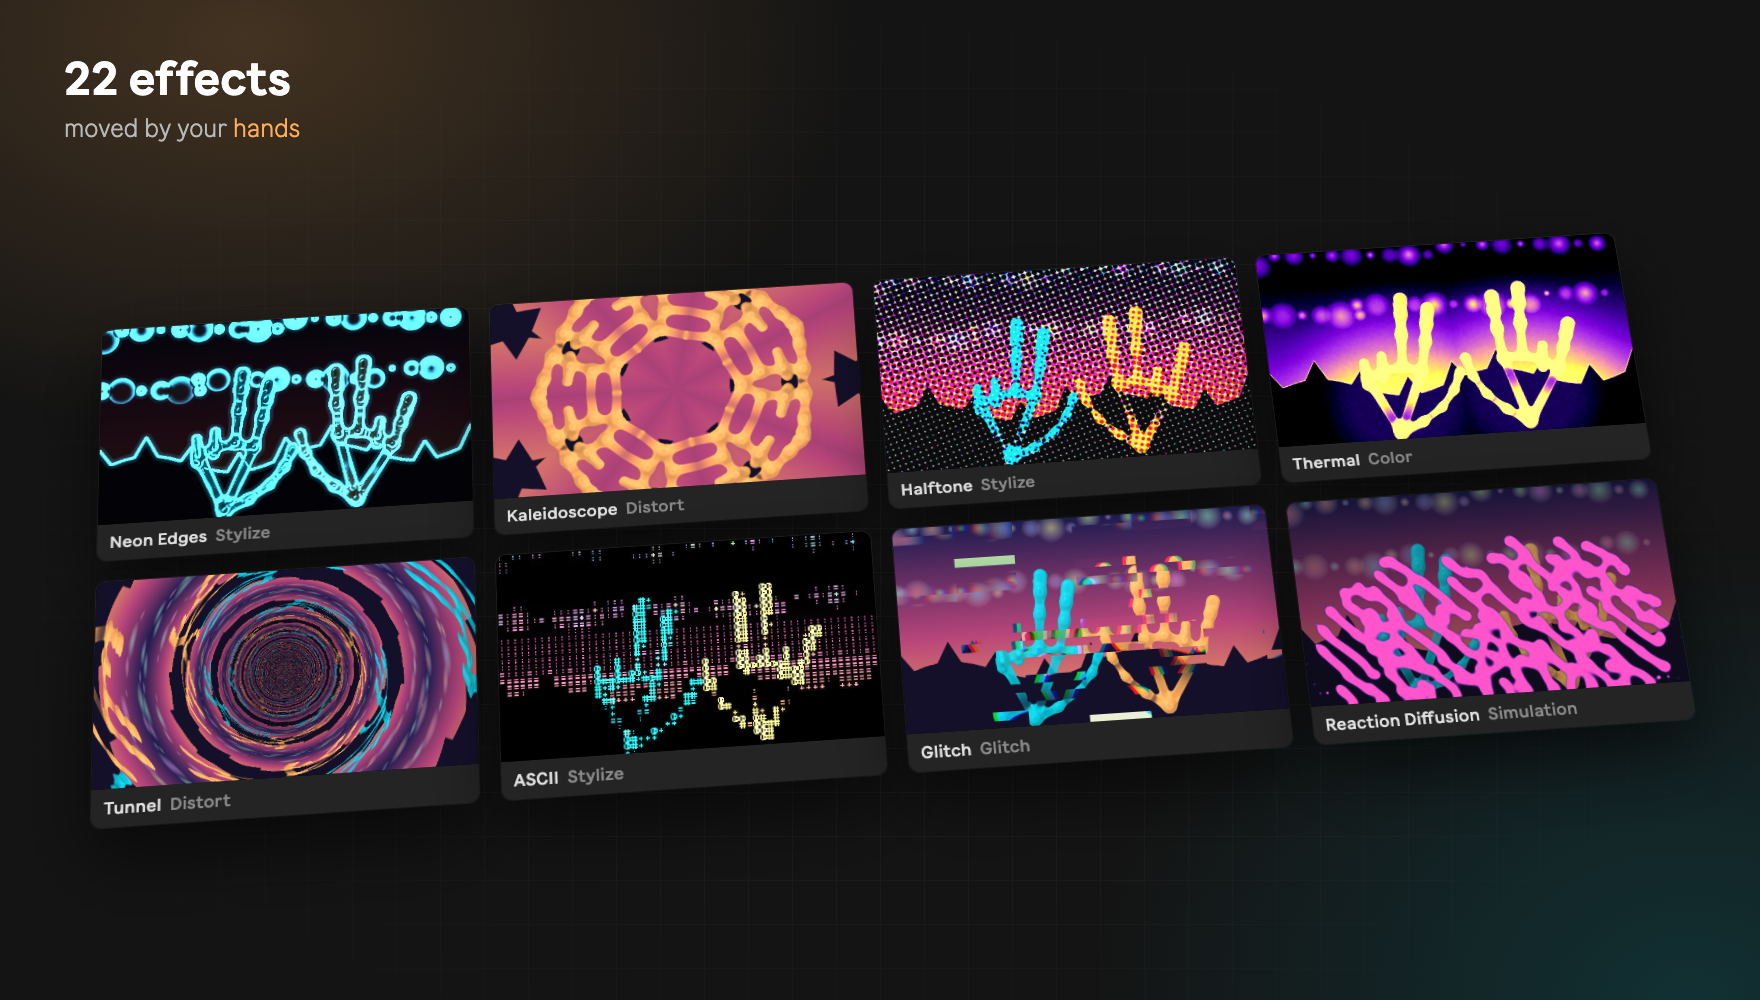
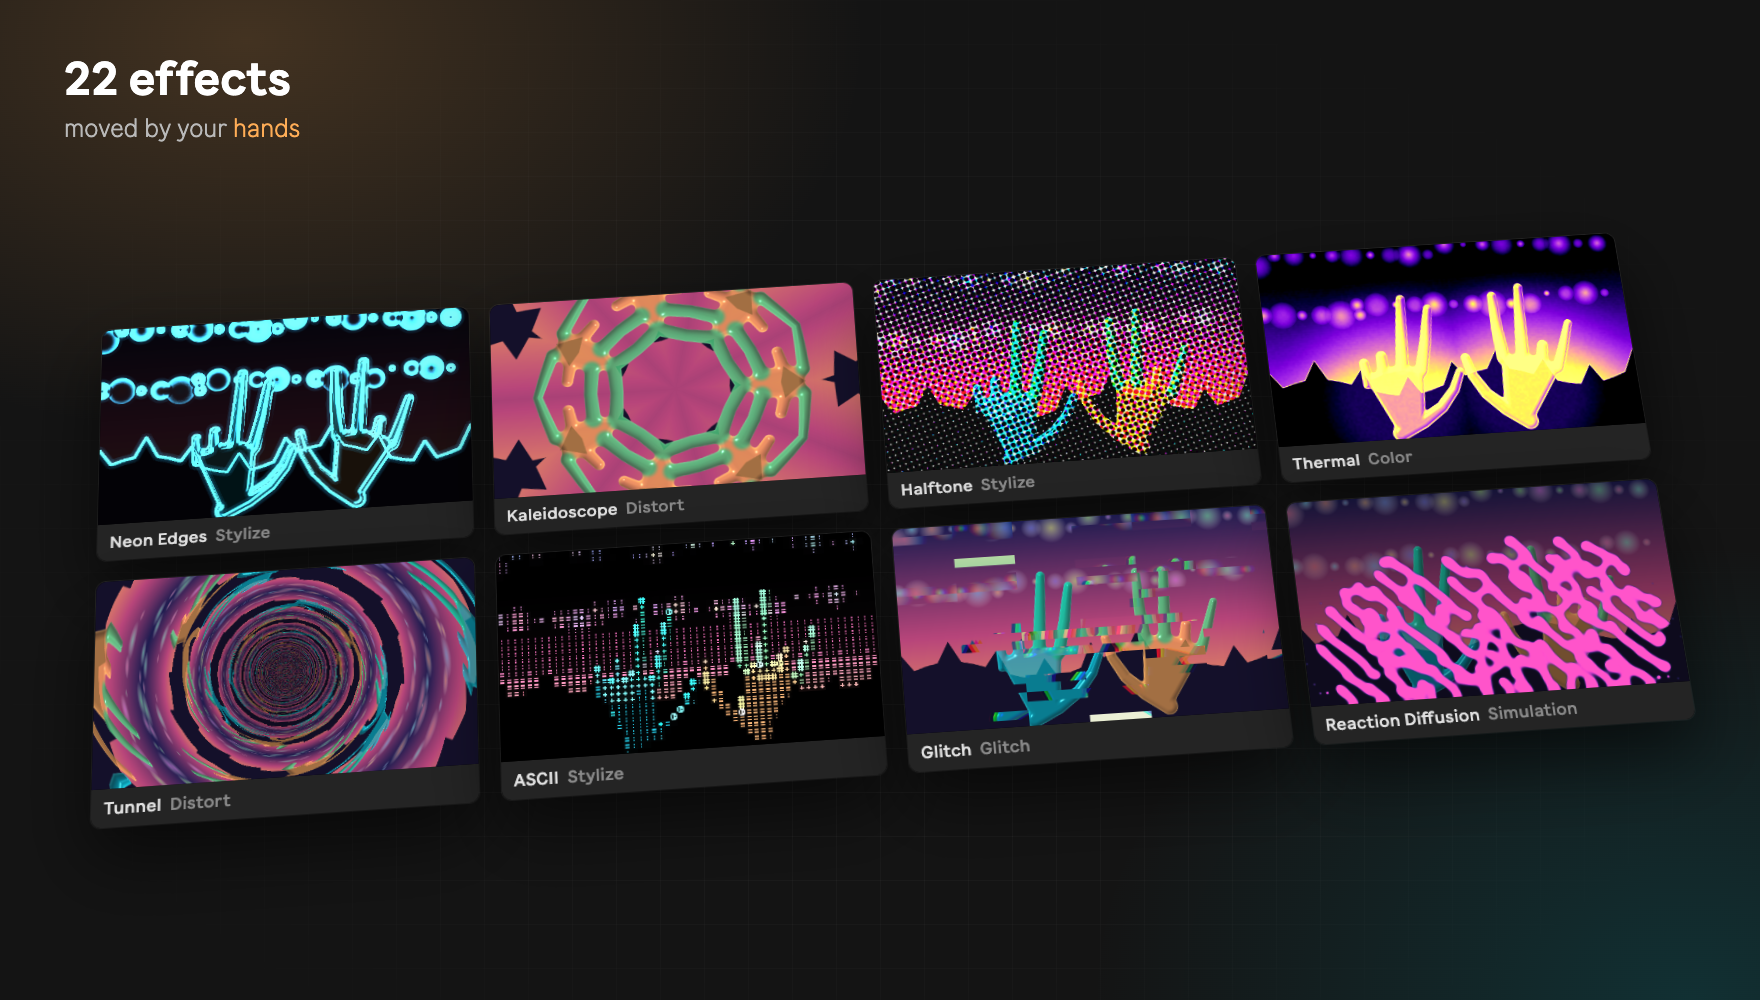
feat: slimmer, more elegant jelly hands; fix blank audio mod menus
- Jelly look rebuilt as a distance field: tapered fingers (knuckle to
  tip), joined plainly so joints do not bulge, blended only into a
  glassy palm; clear inside, solid at the rim, soft highlight. Sized
  from the hand itself (knuckle spacing) instead of the old app's
  scale factor, which made fingers ~1.5x wider than real ones in
  close-ups. Playing fingers tint smoothly towards the play color.
- Editor: a knob's stored audio source (e.g. A Beat) showed as blank
  when the settings arrived before the letter was heard; the menu now
  adds missing entries and always shows the parameter's value.

Claude-Session: https://claude.ai/code/session_01Lv8F25mHrKPNLjGZjr72Lo

diff --git a/package/javascript/mh-gl.js b/package/javascript/mh-gl.js
@@ -90,7 +90,9 @@ uniform float u_mix;
 out vec4 o;
 void main() { o = vec4(mix(texture(u_base, v_uv).rgb, texture(u_fx, v_uv).rgb, u_mix), 1.0); }`;
 
-  // The old app's hand body: a lit, slightly wobbling field over joints and bones.
+  // The hand body ("Jelly"): slim tapered fingers smoothly joined to a glassy palm,
+  // as a signed distance field. Sized from the hand itself (knuckle spacing), so it
+  // stays slimmer than the real fingers at any distance from the camera.
   const FIELD_VERT = `#version 300 es
 precision highp float;
 in vec2 a_pos;
@@ -98,91 +100,101 @@ uniform vec4 u_rect;
 uniform vec2 u_res;
 uniform float u_yFlip;
 out vec2 v_px;
-out vec2 v_local;
 ${TO_CLIP}
 void main() {
   v_px = u_rect.xy + a_pos * u_rect.zw;
-  v_local = a_pos * 2.0 - 1.0;
   gl_Position = toClip(v_px, u_res);
 }`;
 
   const FIELD_FRAG = `#version 300 es
 precision highp float;
 #define JOINTS 21
-#define SEGS 21
 in vec2 v_px;
-in vec2 v_local;
 uniform vec2 u_joint[JOINTS];
 uniform float u_jointR[JOINTS];
-uniform vec4 u_seg[SEGS];
-uniform float u_segR[SEGS];
-uniform vec3 u_color, u_highlight;
-uniform float u_alpha, u_time, u_rate, u_phase;
+uniform float u_jointOn[JOINTS];
+uniform float u_palmR, u_k, u_R;
+uniform vec3 u_color, u_highlight, u_play;
+uniform float u_alpha, u_time, u_phase;
 out vec4 o;
-float capsule(vec2 p, vec2 a, vec2 b, float r) {
-  vec2 pa = p - a, ba = b - a;
-  float h = clamp(dot(pa, ba) / max(dot(ba, ba), 1e-4), 0.0, 1.0);
-  return length(pa - ba * h) - r;
+// Fingers: thumb from the wrist, then index to pinky from their knuckles.
+const int BA[16] = int[16](0, 1, 2, 3, 5, 6, 7, 9, 10, 11, 13, 14, 15, 17, 18, 19);
+const int BB[16] = int[16](1, 2, 3, 4, 6, 7, 8, 10, 11, 12, 14, 15, 16, 18, 19, 20);
+const int PALM[6] = int[6](0, 1, 5, 9, 13, 17);
+float cro(vec2 a, vec2 b) { return a.x * b.y - a.y * b.x; }
+// A capsule whose radius changes from ra to rb (Inigo Quilez).
+float taper(vec2 p, vec2 pa, vec2 pb, float ra, float rb) {
+  p -= pa; pb -= pa;
+  float h = dot(pb, pb);
+  if (h < 1.0) return length(p) - max(ra, rb);
+  vec2 q = vec2(dot(p, vec2(pb.y, -pb.x)), dot(p, pb)) / h;
+  q.x = abs(q.x);
+  float b = ra - rb;
+  vec2 c = vec2(sqrt(max(h - b * b, 1e-3)), b);
+  float k = cro(c, q), m = dot(c, q), n = dot(q, q);
+  if (k < 0.0) return sqrt(h * n) - ra;
+  if (k > c.x) return sqrt(h * (n + 1.0 - 2.0 * q.y)) - rb;
+  return m - ra;
 }
-float wob(vec2 d, int i) {
-  float a = atan(d.y, d.x);
-  return 1.0 + 0.06 * sin(a * 2.0 + u_time * (1.05 + u_rate * 0.95) + u_phase * 6.28318)
-             + 0.035 * sin(a * 3.0 - u_time * (0.62 + u_rate * 0.82) + float(i) * 0.37);
-}
-float pulseAt(vec2 p, vec4 s) {
-  float t = clamp(length(p - s.xy) / max(length(s.zw - s.xy), 1e-4), 0.0, 1.0);
-  return 0.5 + 0.5 * sin((t - u_time * 0.18 * max(u_rate, 1e-3) - u_phase) * 6.28318);
-}
-float fieldAt(vec2 p) {
-  float total = 0.0;
-  for (int i = 0; i < JOINTS; i++) {
-    vec2 d = p - u_joint[i];
-    float dist = length(d) / max(u_jointR[i] * wob(d, i), 1e-3);
-    total += exp(-pow(dist, 2.35)) * 0.92;
+float palm(vec2 p) {
+  vec2 v0 = u_joint[PALM[0]];
+  float d = dot(p - v0, p - v0), s = 1.0;
+  int j = 5;
+  for (int i = 0; i < 6; i++) {
+    vec2 vi = u_joint[PALM[i]], vj = u_joint[PALM[j]];
+    vec2 e = vj - vi, w = p - vi;
+    vec2 b = w - e * clamp(dot(w, e) / max(dot(e, e), 1e-3), 0.0, 1.0);
+    d = min(d, dot(b, b));
+    bvec3 c = bvec3(p.y >= vi.y, p.y < vj.y, e.x * w.y > e.y * w.x);
+    if (all(c) || all(not(c))) s = -s;
+    j = i;
   }
-  for (int i = 0; i < SEGS; i++) {
-    float dist = capsule(p, u_seg[i].xy, u_seg[i].zw, u_segR[i]) / max(u_segR[i], 1e-3);
-    total += exp(-pow(max(dist, 0.0), 2.4) * 1.05) * (1.08 + pulseAt(p, u_seg[i]) * 0.12);
+  return s * sqrt(d);
+}
+float smin(float a, float b, float k) { float h = max(k - abs(a - b), 0.0) / k; return min(a, b) - h * h * k * 0.25; }
+// x: distance (px, negative inside), y: how much a playing finger tints this point.
+// The segments of a finger join plainly (no bulging joints); only fingers and palm blend.
+vec2 scene(vec2 p) {
+  float d = palm(p) - u_palmR * 0.2, on = 0.0;
+  int bone = 0;
+  for (int f = 0; f < 5; f++) {
+    int count = f == 0 ? 4 : 3;
+    float df = 1e9;
+    for (int k = 0; k < 4; k++) {
+      if (k >= count) break;
+      int a = BA[bone], b = BB[bone];
+      df = min(df, taper(p, u_joint[a], u_joint[b], u_jointR[a], u_jointR[b]));
+      bone++;
+    }
+    on = max(on, u_jointOn[BB[bone - 1]] * (1.0 - smoothstep(-2.0, u_k, df)));
+    d = smin(d, df, u_k);
   }
-  return total;
+  return vec2(d, on);
 }
 void main() {
-  float field = 0.0, membraneField = 0.0, charge = 0.0, centerWeight = 0.0;
-  for (int i = 0; i < JOINTS; i++) {
-    vec2 d = v_px - u_joint[i];
-    float dist = length(d) / max(u_jointR[i] * wob(d, i), 1e-3);
-    float blob = exp(-pow(dist, 2.35));
-    field += blob * 0.92;
-    membraneField += exp(-pow(dist - 0.98, 2.0) * 8.5);
-    charge += blob * (0.35 + 0.65 * sin(u_time * (1.8 + u_rate * 1.2) + u_phase * 6.28318 + float(i) * 0.31));
-    centerWeight += blob;
-  }
-  for (int i = 0; i < SEGS; i++) {
-    float dist = capsule(v_px, u_seg[i].xy, u_seg[i].zw, u_segR[i]) / max(u_segR[i], 1e-3);
-    float bridge = exp(-pow(max(dist, 0.0), 2.4) * 1.05);
-    float pulse = pulseAt(v_px, u_seg[i]);
-    field += bridge * (1.08 + pulse * 0.12);
-    membraneField += exp(-pow(dist - 0.12, 2.0) * 6.8) * 0.82;
-    charge += bridge * pulse * 0.3;
-  }
-  float body = smoothstep(0.98, 1.24, field);
-  if (body < 0.001) discard;
-  float core = smoothstep(1.26, 1.82, field);
-  float membrane = smoothstep(0.18, 0.96, membraneField) * (1.0 - core * 0.44);
-  float flow = 0.5 + 0.5 * sin(length(v_local) * 9.0 - u_time * (1.5 + u_rate * 0.8) + u_phase * 6.28318 + centerWeight * 0.45);
-  float electric = clamp(charge / 18.0, 0.0, 1.0);
-  float e = 2.2;
-  float fx = fieldAt(v_px + vec2(e, 0.0)) - fieldAt(v_px - vec2(e, 0.0));
-  float fy = fieldAt(v_px + vec2(0.0, e)) - fieldAt(v_px - vec2(0.0, e));
-  vec3 n = normalize(vec3(-fx, -fy, 0.95));
-  vec3 l = normalize(vec3(-0.38, -0.46, 0.8));
-  float diffuse = max(dot(n, l), 0.0);
-  float rim = pow(1.0 - max(n.z, 0.0), 2.4);
-  float spec = pow(max(dot(reflect(-l, n), vec3(0.0, 0.0, 1.0)), 0.0), 18.0);
-  float gloss = spec * (0.18 + flow * 0.12 + electric * 0.08);
-  vec3 c = u_color * (0.82 + diffuse * 0.34 + core * 0.08);
-  c = mix(c, u_highlight, gloss + rim * 0.14 + membrane * 0.05);
-  float a = u_alpha * body * (1.0 + membrane * 0.12 + gloss * 0.08);
+  vec2 s = scene(v_px);
+  float body = clamp(0.5 - s.x, 0.0, 1.0);             // 1 px soft edge
+  if (body <= 0.0) discard;
+  float R = max(u_R, 2.0);                              // one thickness for the whole hand: no seams
+  float t = clamp(-s.x / R, 0.0, 1.0);                  // 0 at the rim, 1 deep inside
+  // A rounded profile: the normal tilts outwards towards the rim.
+  float e = max(1.0, R * 0.12);
+  vec2 g = vec2(scene(v_px + vec2(e, 0.0)).x - scene(v_px - vec2(e, 0.0)).x,
+                scene(v_px + vec2(0.0, e)).x - scene(v_px - vec2(0.0, e)).x) / (2.0 * e);
+  float u = 1.0 - t;
+  float slope = u / max(sqrt(1.0 - u * u), 0.12);
+  vec3 n = normalize(vec3(g * min(slope, 6.0), 1.0));
+  vec3 L = normalize(vec3(-0.45, -0.55, 0.7));
+  float diffuse = max(dot(n, L), 0.0);
+  float spec = pow(max(dot(reflect(-L, n), vec3(0.0, 0.0, 1.0)), 0.0), 36.0);
+  float fresnel = pow(1.0 - n.z, 2.0);
+  float sheen = 0.75 + 0.25 * sin(dot(v_px, vec2(0.018, 0.031)) - u_time * 1.3 + u_phase * 6.28318);
+  vec3 base = mix(u_color, u_play, s.y * 0.7);
+  vec3 c = base * (0.5 + 0.6 * diffuse) + u_highlight * (spec * 0.85 * sheen + fresnel * 0.3);
+  // Glass: clear inside, solid at the rim; a playing finger fills up.
+  float rim = 1.0 - smoothstep(0.0, 0.45, t);
+  float a = u_alpha * body * mix(0.72, 1.0, max(rim, s.y * 0.6));
+  a = clamp(a + spec * 0.3, 0.0, 1.0);
   o = vec4(c * a, a);
 }`;
 
@@ -407,38 +419,36 @@ void main() {
         const pts = hand.pts.map(map);
         const color = hex(s ? theme.right : theme.left), hi = hex(theme.highlight);
         const fv = (i) => { const f = i <= 4 ? 0 : Math.floor((i - 1) / 4); return f > 0 && hand.on[f] ? 1 : 0; };
-        // Size follows how big the hand is on screen (old app: palm 45..220 px -> 0.3..1.9).
-        const palm = [5, 9, 13, 17].reduce((a, i) => a + Math.hypot(pts[i][0] - pts[0][0], pts[i][1] - pts[0][1]), 0) / 4 / unit;
-        const n = clamp01((0.3 + (palm - 45) / 175 * 1.6 - 0.3) / 1.6);
-        const scale = (0.18 + n * 1.1) * 2.2 * unit;
-        const motion = s ? [1.08, 0.58] : [0.84, 0.12];
+        const phase = s ? 0.58 : 0.12;  // the two hands shimmer out of step
         if (look === "jelly") {
-          const joints = new Float32Array(42), radii = new Float32Array(21), segs = new Float32Array(84), segR = new Float32Array(21);
+          // Thickness from the hand itself: the spacing of the four knuckles.
+          const dist = (i, j) => Math.hypot(pts[i][0] - pts[j][0], pts[i][1] - pts[j][1]);
+          const sp = Math.max((dist(5, 9) + dist(9, 13) + dist(13, 17)) / 3, dist(0, 9) * 0.22, 3);
+          const joints = new Float32Array(42), radii = new Float32Array(21), on = new Float32Array(21);
+          // Wrist, thumb (CMC, MCP, IP, tip), then per finger: knuckle, middle joints, tip.
+          const thumb = [0.42, 0.36, 0.3, 0.26, 0.22], finger = [0.3, 0.26, 0.23, 0.2];
           let x0 = Infinity, y0 = Infinity, x1 = -Infinity, y1 = -Infinity;
           for (let i = 0; i < 21; i++) {
-            const v = fv(i);
-            const rad = (i === 0 ? 9.4 : [5, 9, 13, 17].includes(i) ? 7.4 : TIPS.includes(i) ? 7.8 + v * 3.8 : 5.9 + v * 2.4) * scale;
+            const f = i <= 4 ? 0 : Math.floor((i - 1) / 4);
+            let rad = (i <= 4 ? thumb[i] : finger[(i - 1) % 4]) * sp;
+            if (f === 4) rad *= 0.88;                                  // pinky
+            on[i] = fv(i);
+            if (on[i]) rad *= 1.1;
             joints[i * 2] = pts[i][0]; joints[i * 2 + 1] = pts[i][1]; radii[i] = rad;
             x0 = Math.min(x0, pts[i][0] - rad); y0 = Math.min(y0, pts[i][1] - rad);
             x1 = Math.max(x1, pts[i][0] + rad); y1 = Math.max(y1, pts[i][1] + rad);
           }
-          BONES.forEach(([a, b], i) => {
-            const len = Math.hypot(pts[b][0] - pts[a][0], pts[b][1] - pts[a][1]);
-            const merge = 0.34 + clamp01(len / Math.max(24 * scale, 1)) * 0.9;
-            segs.set([pts[a][0], pts[a][1], pts[b][0], pts[b][1]], i * 4);
-            segR[i] = (radii[a] + radii[b]) * 0.5 * 0.42 * (1 + (merge - 1) * 0.36);
-          });
-          const pad = 18 * unit * (0.8 + n * 1.08);
+          const pad = 0.3 * sp + 3;
           const prog = progs.field;
           gl.useProgram(prog.p);
           gl.uniform4f(prog.u.u_rect, x0 - pad, y0 - pad, x1 - x0 + pad * 2, y1 - y0 + pad * 2);
           gl.uniform2f(prog.u.u_res, w, h);
           gl.uniform1f(prog.u.u_yFlip, dst ? -1 : 1);
-          gl.uniform2fv(prog.u.u_joint, joints); gl.uniform1fv(prog.u.u_jointR, radii);
-          gl.uniform4fv(prog.u.u_seg, segs); gl.uniform1fv(prog.u.u_segR, segR);
-          gl.uniform3fv(prog.u.u_color, color); gl.uniform3fv(prog.u.u_highlight, hi);
-          gl.uniform1f(prog.u.u_alpha, 0.86); gl.uniform1f(prog.u.u_time, time);
-          gl.uniform1f(prog.u.u_rate, motion[0]); gl.uniform1f(prog.u.u_phase, motion[1]);
+          gl.uniform2fv(prog.u.u_joint, joints); gl.uniform1fv(prog.u.u_jointR, radii); gl.uniform1fv(prog.u.u_jointOn, on);
+          gl.uniform1f(prog.u.u_palmR, 0.5 * sp); gl.uniform1f(prog.u.u_k, 0.22 * sp); gl.uniform1f(prog.u.u_R, 0.3 * sp);
+          gl.uniform3fv(prog.u.u_color, color); gl.uniform3fv(prog.u.u_highlight, hi); gl.uniform3fv(prog.u.u_play, hex(theme.play));
+          gl.uniform1f(prog.u.u_alpha, 0.92); gl.uniform1f(prog.u.u_time, time);
+          gl.uniform1f(prog.u.u_phase, phase);
           gl.bindVertexArray(quad); gl.drawArrays(gl.TRIANGLES, 0, 6);
         } else {
           for (const [a, b] of BONES) {

diff --git a/package/javascript/mh-editor.html b/package/javascript/mh-editor.html
@@ -812,7 +812,8 @@ function sourceOptions() {
 // MidiHands Audio devices changed: menus and the chips under the preview.
 function renderAudio() {
   const html = sourceOptions();
-  document.querySelectorAll(".modsrc").forEach((sel) => { const v = sel.value; sel.innerHTML = html; sel.value = v; });
+  document.querySelectorAll(".modsrc").forEach((sel) => { sel.innerHTML = html; });
+  renderFx();   // selections come from the parameters
   const box = $("audioChips");
   if (!S.audioSrc.length) {
     box.innerHTML = `<span class="none" data-info="Put MidiHands Audio on a track (or Main), and its sound can move these effects.">No MidiHands Audio in this Set</span>`;
@@ -857,7 +858,10 @@ function renderFx() {
       cell.querySelector(".dial span").textContent = name;
       cell.querySelector(".dial").dataset.info = fx ? `${fx.name}: ${name}. Drag up/down, double-click resets.` : "";
       const src = P[`x${s}m${j}s`] | 0, amt = P[`x${s}m${j}a`] || 0;
-      const sel = cell.querySelector(".modsrc"); sel.value = src; sel.classList.toggle("on", src > 0);
+      const sel = cell.querySelector(".modsrc");
+      // A stored audio source whose letter the menu does not list yet: add it.
+      if (![...sel.options].some((o) => +o.value === src)) sel.innerHTML = sourceOptions();
+      sel.value = src; sel.classList.toggle("on", src > 0);
       const bar = cell.querySelector(".modamt"), i = bar.querySelector("i");
       bar.classList.toggle("on", src > 0);
       i.style.left = `${50 + Math.min(0, amt) * 50}%`; i.style.width = `${Math.abs(amt) * 50}%`;
